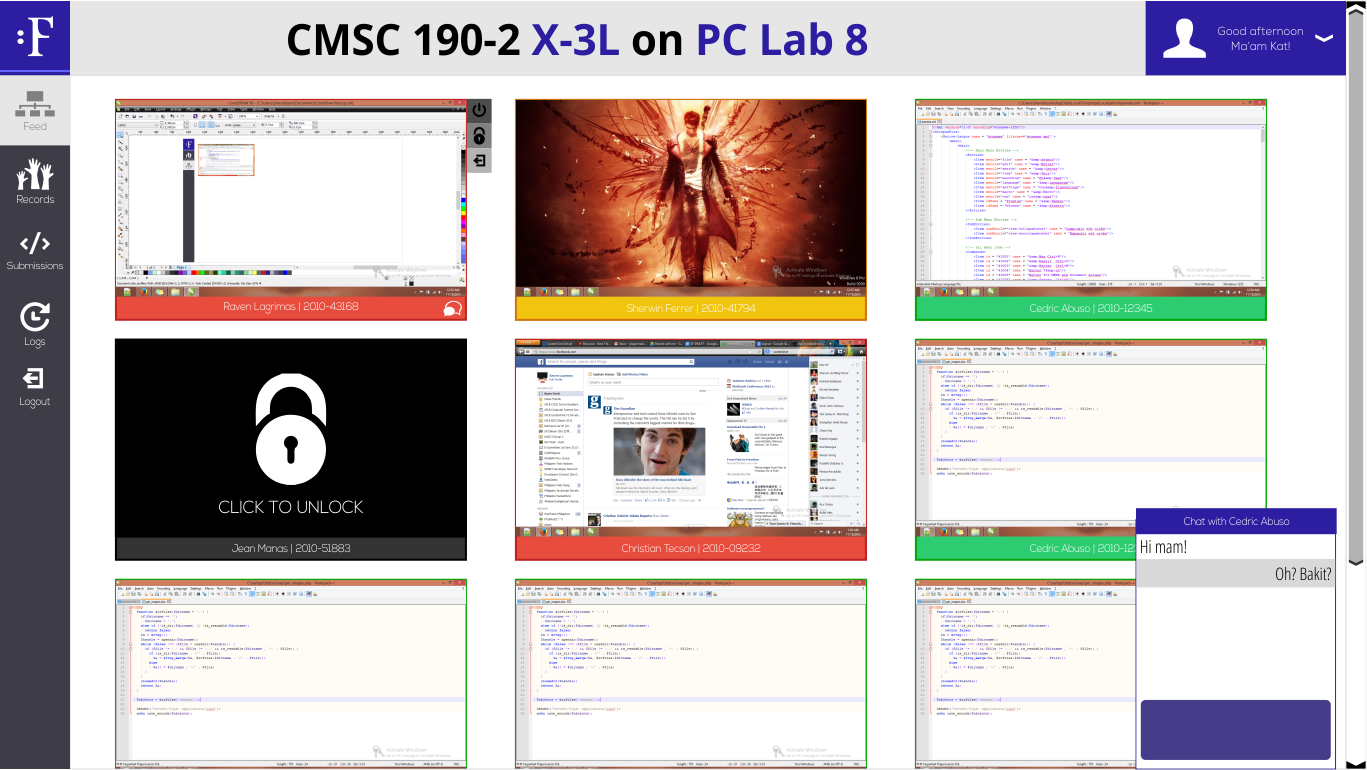
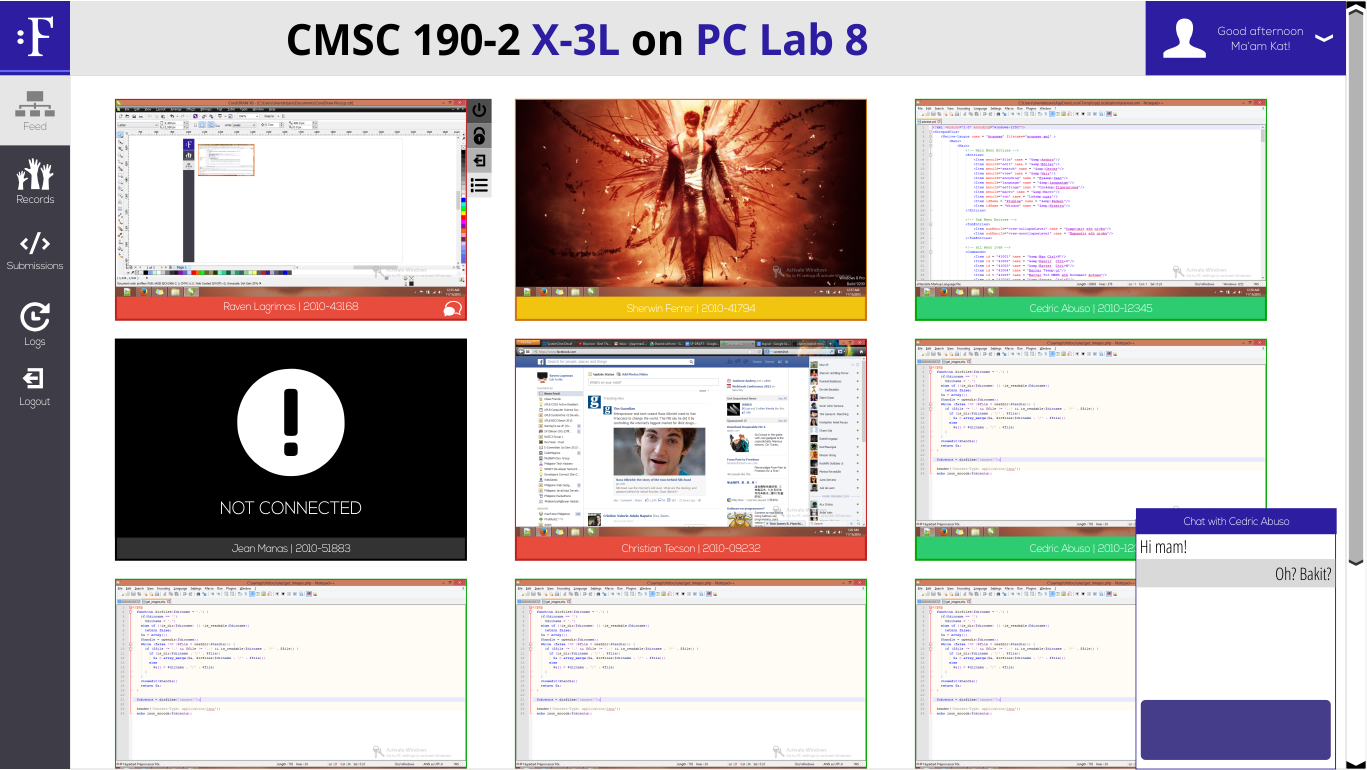
Added locked image and process list button

Changed region(s): [[0.1536, 0.4675, 0.2765, 0.6857], [0.338, 0.2182, 0.3687, 0.2805]]

diff --git a/server/public/js/script.js b/server/public/js/script.js
@@ -580,7 +580,23 @@ Date: ' + new Date(f.date) + '"/>	\
 									},
 									function (data, req) {
 										if (req.status === 200) {
-											console.dir(data);
+											student.active_process = data.status;
+											console.log(data.status);
+										}
+									}
+								);
+								util.xhr(
+									'POST',
+									ip,
+									{
+										command : 'proclist',
+										hash : student.hash,
+										salt : student.salt
+									},
+									function (data, req) {
+										if (req.status === 200) {
+											student.process_list = data.status;
+											console.log(data.status);
 										}
 									}
 								);

diff --git a/server/public/js/utils.js b/server/public/js/utils.js
@@ -14,7 +14,11 @@
 
         request.onreadystatechange = function () {
             if (request.readyState === 4) {
-                success_cb && success_cb(JSON.parse(request.responseText), request);
+				try {
+					success_cb && success_cb(JSON.parse(request.responseText), request);
+				} catch (e) {
+					success_cb({response : request.responseText}, request);
+				}
             }
         };
 

diff --git a/server/public/css/style.css b/server/public/css/style.css
@@ -648,6 +648,10 @@ section{
     background-color: #B3B3B3;
     background-position: 0 -50px;
 }
+.unit_mngr_div button:nth-child(4){
+    background-color: #CCCCCC;
+    background-position: 0 -75px;
+}
 .chat_button{
     position: absolute;
     background: url(../img/chat-icon.png);
